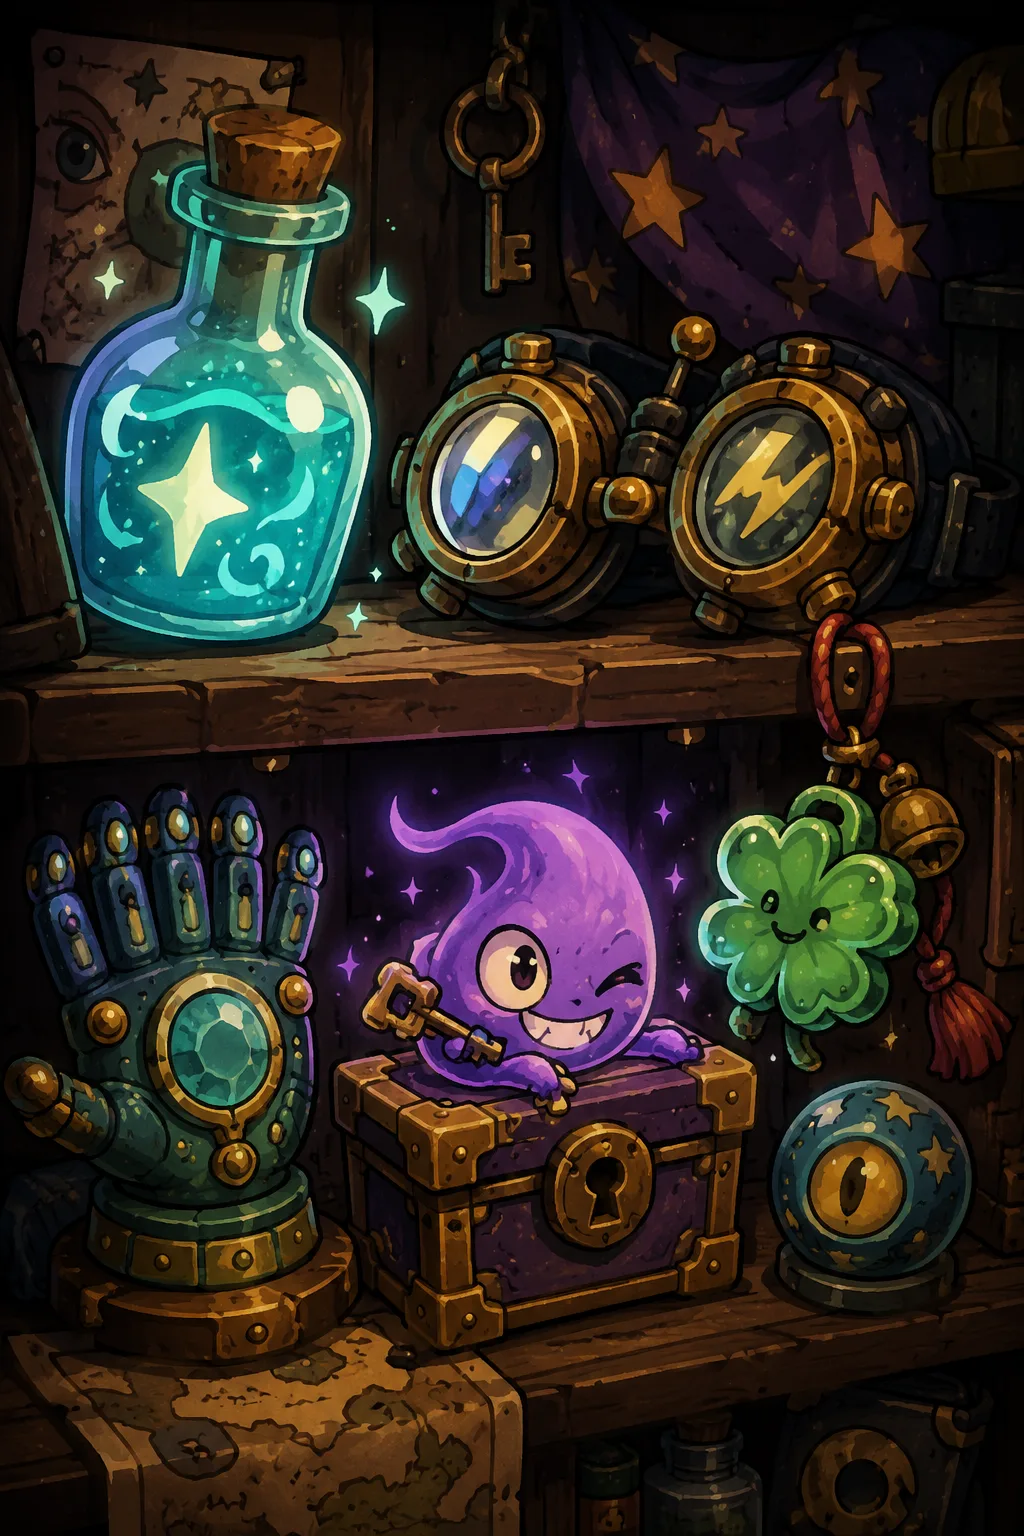
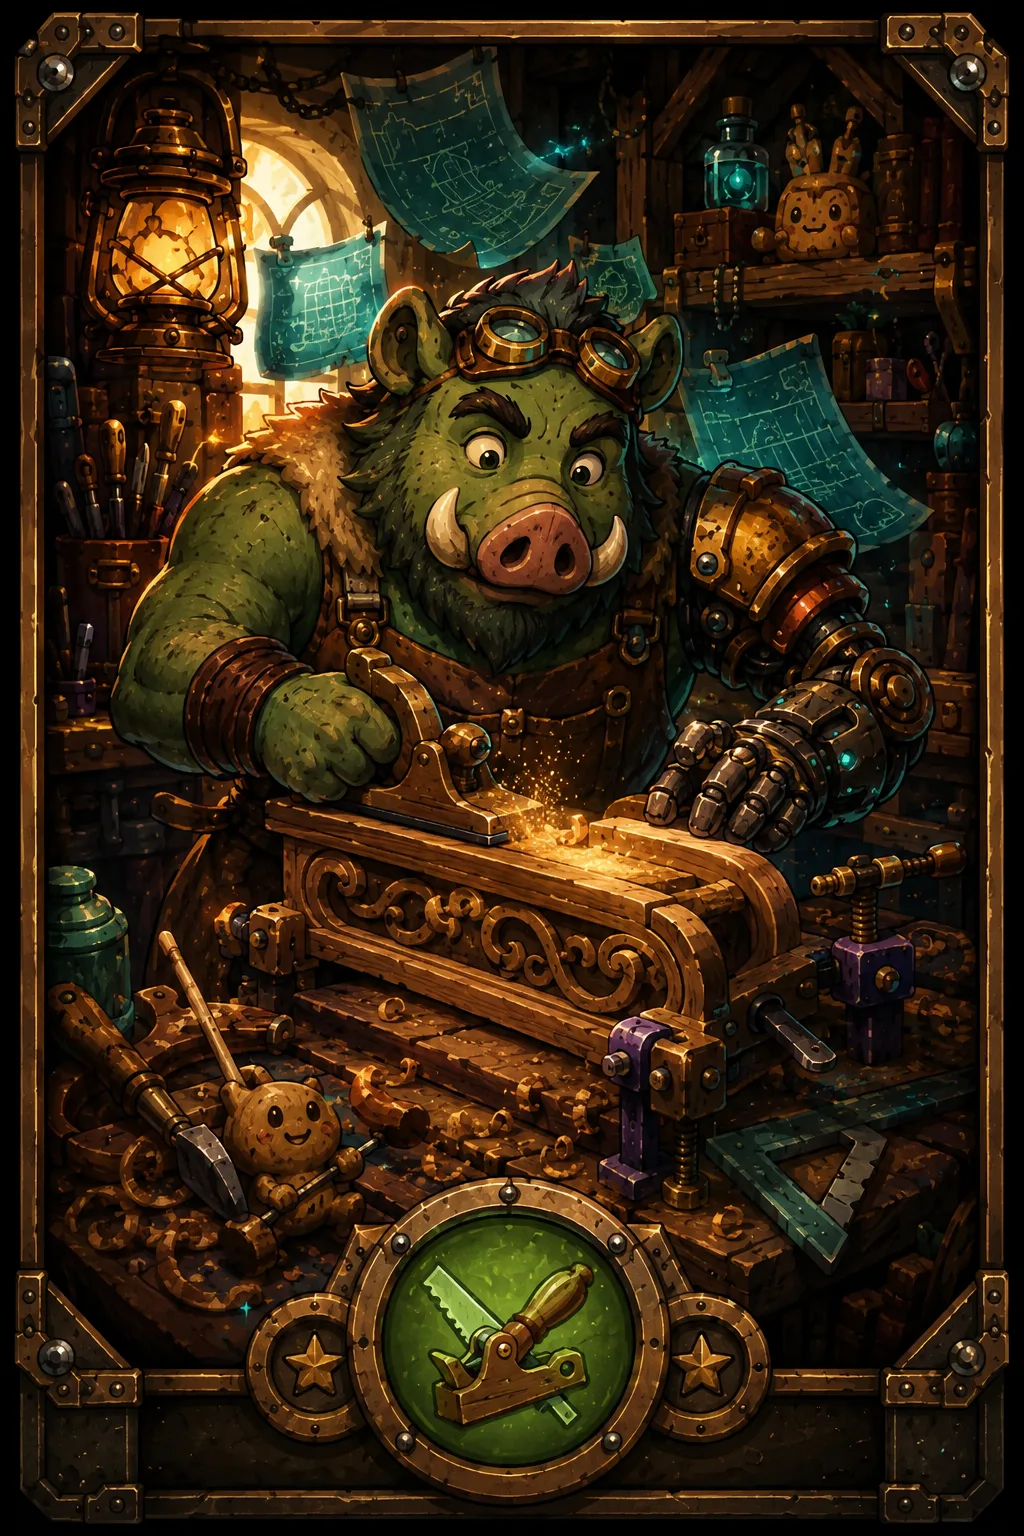
better skill handling

diff --git a/stores/helpers/adventureCards.ts b/stores/helpers/adventureCards.ts
@@ -2902,8 +2902,8 @@ export const ADVENTURE_CARDS: BuilderCard[] = [
     title: 'The suspiciously useful object',
     icon: 'kind-icon:treasure',
     flourish: '✦',
-    deckImage: '/images/adventure/thumb/reward-common.webp',
-    heroImage: '/images/adventure/hero/reward-common.webp',
+    deckImage: '/images/adventure/thumb/skill-common.webp',
+    heroImage: '/images/adventure/hero/skill-common.webp',
     tagline: 'One object. Six possibilities. At least one consequence.',
     narrative:
       'Every entity begins with something in hand, pocket, inventory, aura, or legally contested possession. It is probably common. Probably. The universe occasionally misfiles powerful artifacts under “starter kit,” because the universe is a disorganized raccoon.',
@@ -2929,8 +2929,8 @@ export const ADVENTURE_CARDS: BuilderCard[] = [
     title: 'The signature trick',
     icon: 'kind-icon:sparkles',
     flourish: '❋',
-    deckImage: '/images/adventure/thumb/skill-rare.webp',
-    heroImage: '/images/adventure/hero/skill-rare.webp',
+    deckImage: '/images/adventure/thumb/skill-uncommon.webp',
+    heroImage: '/images/adventure/hero/skill-uncommon.webp',
     tagline:
       'One trick. Six possibilities. Possibly illegal in three kingdoms.',
     narrative: